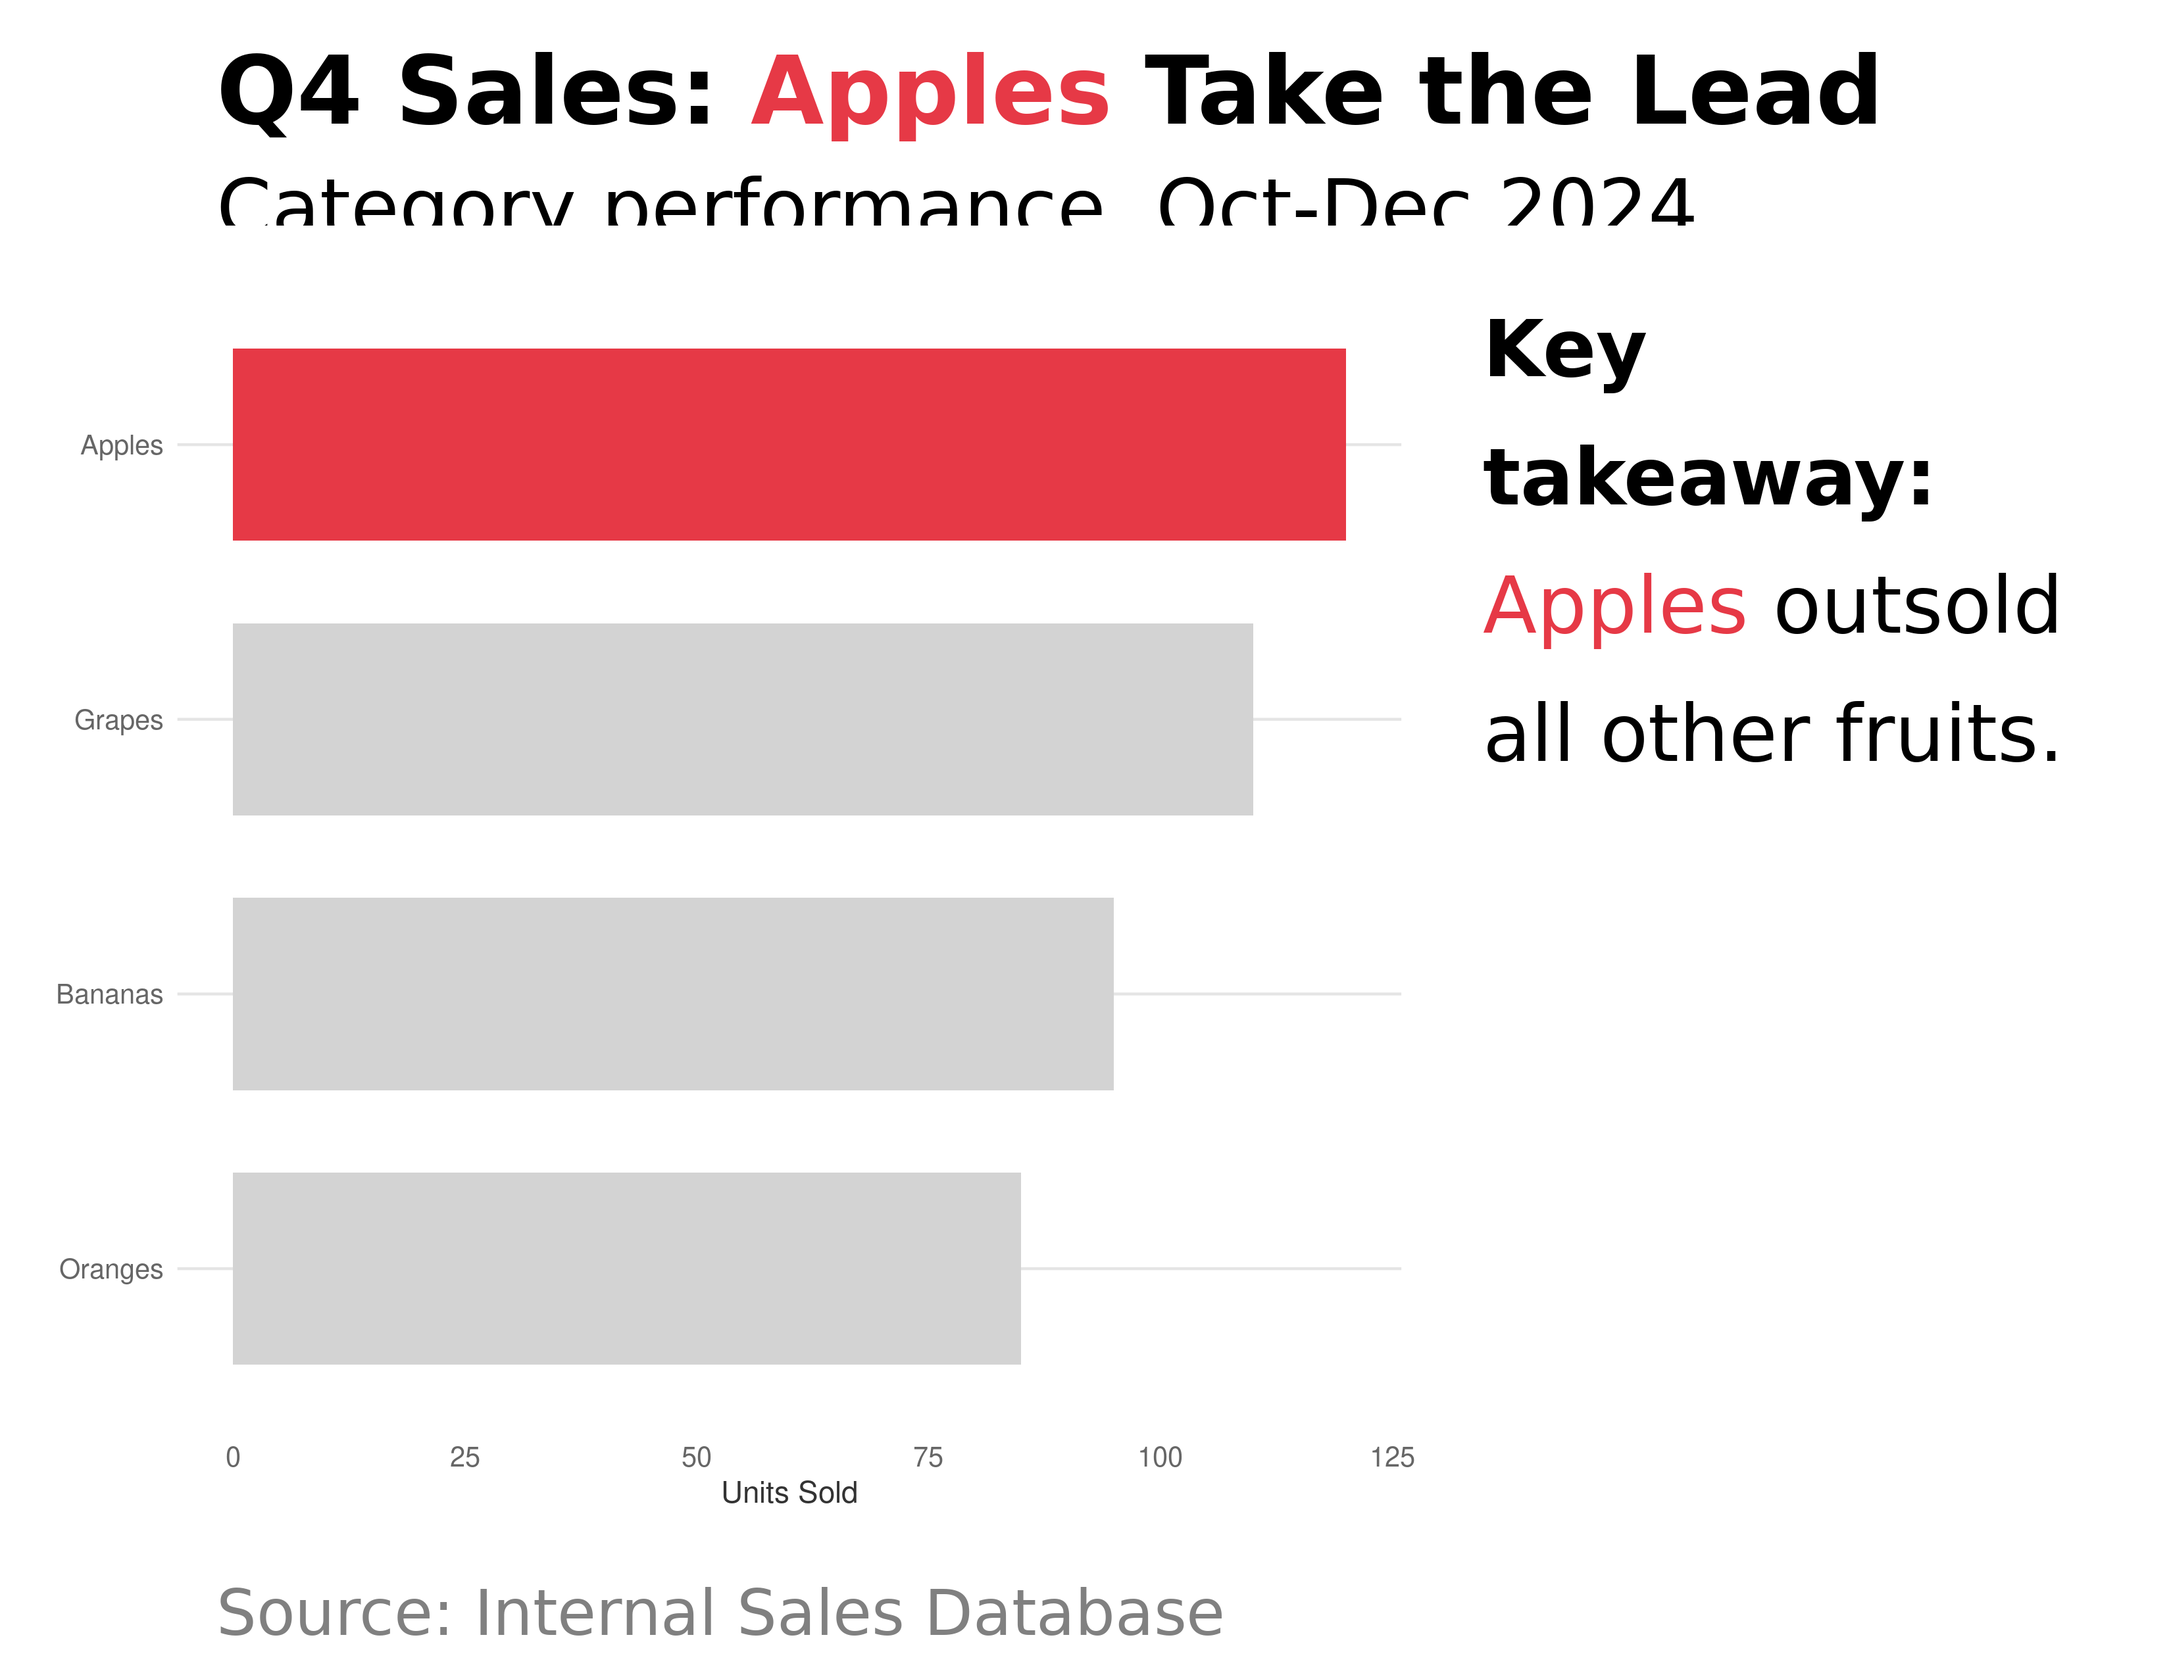
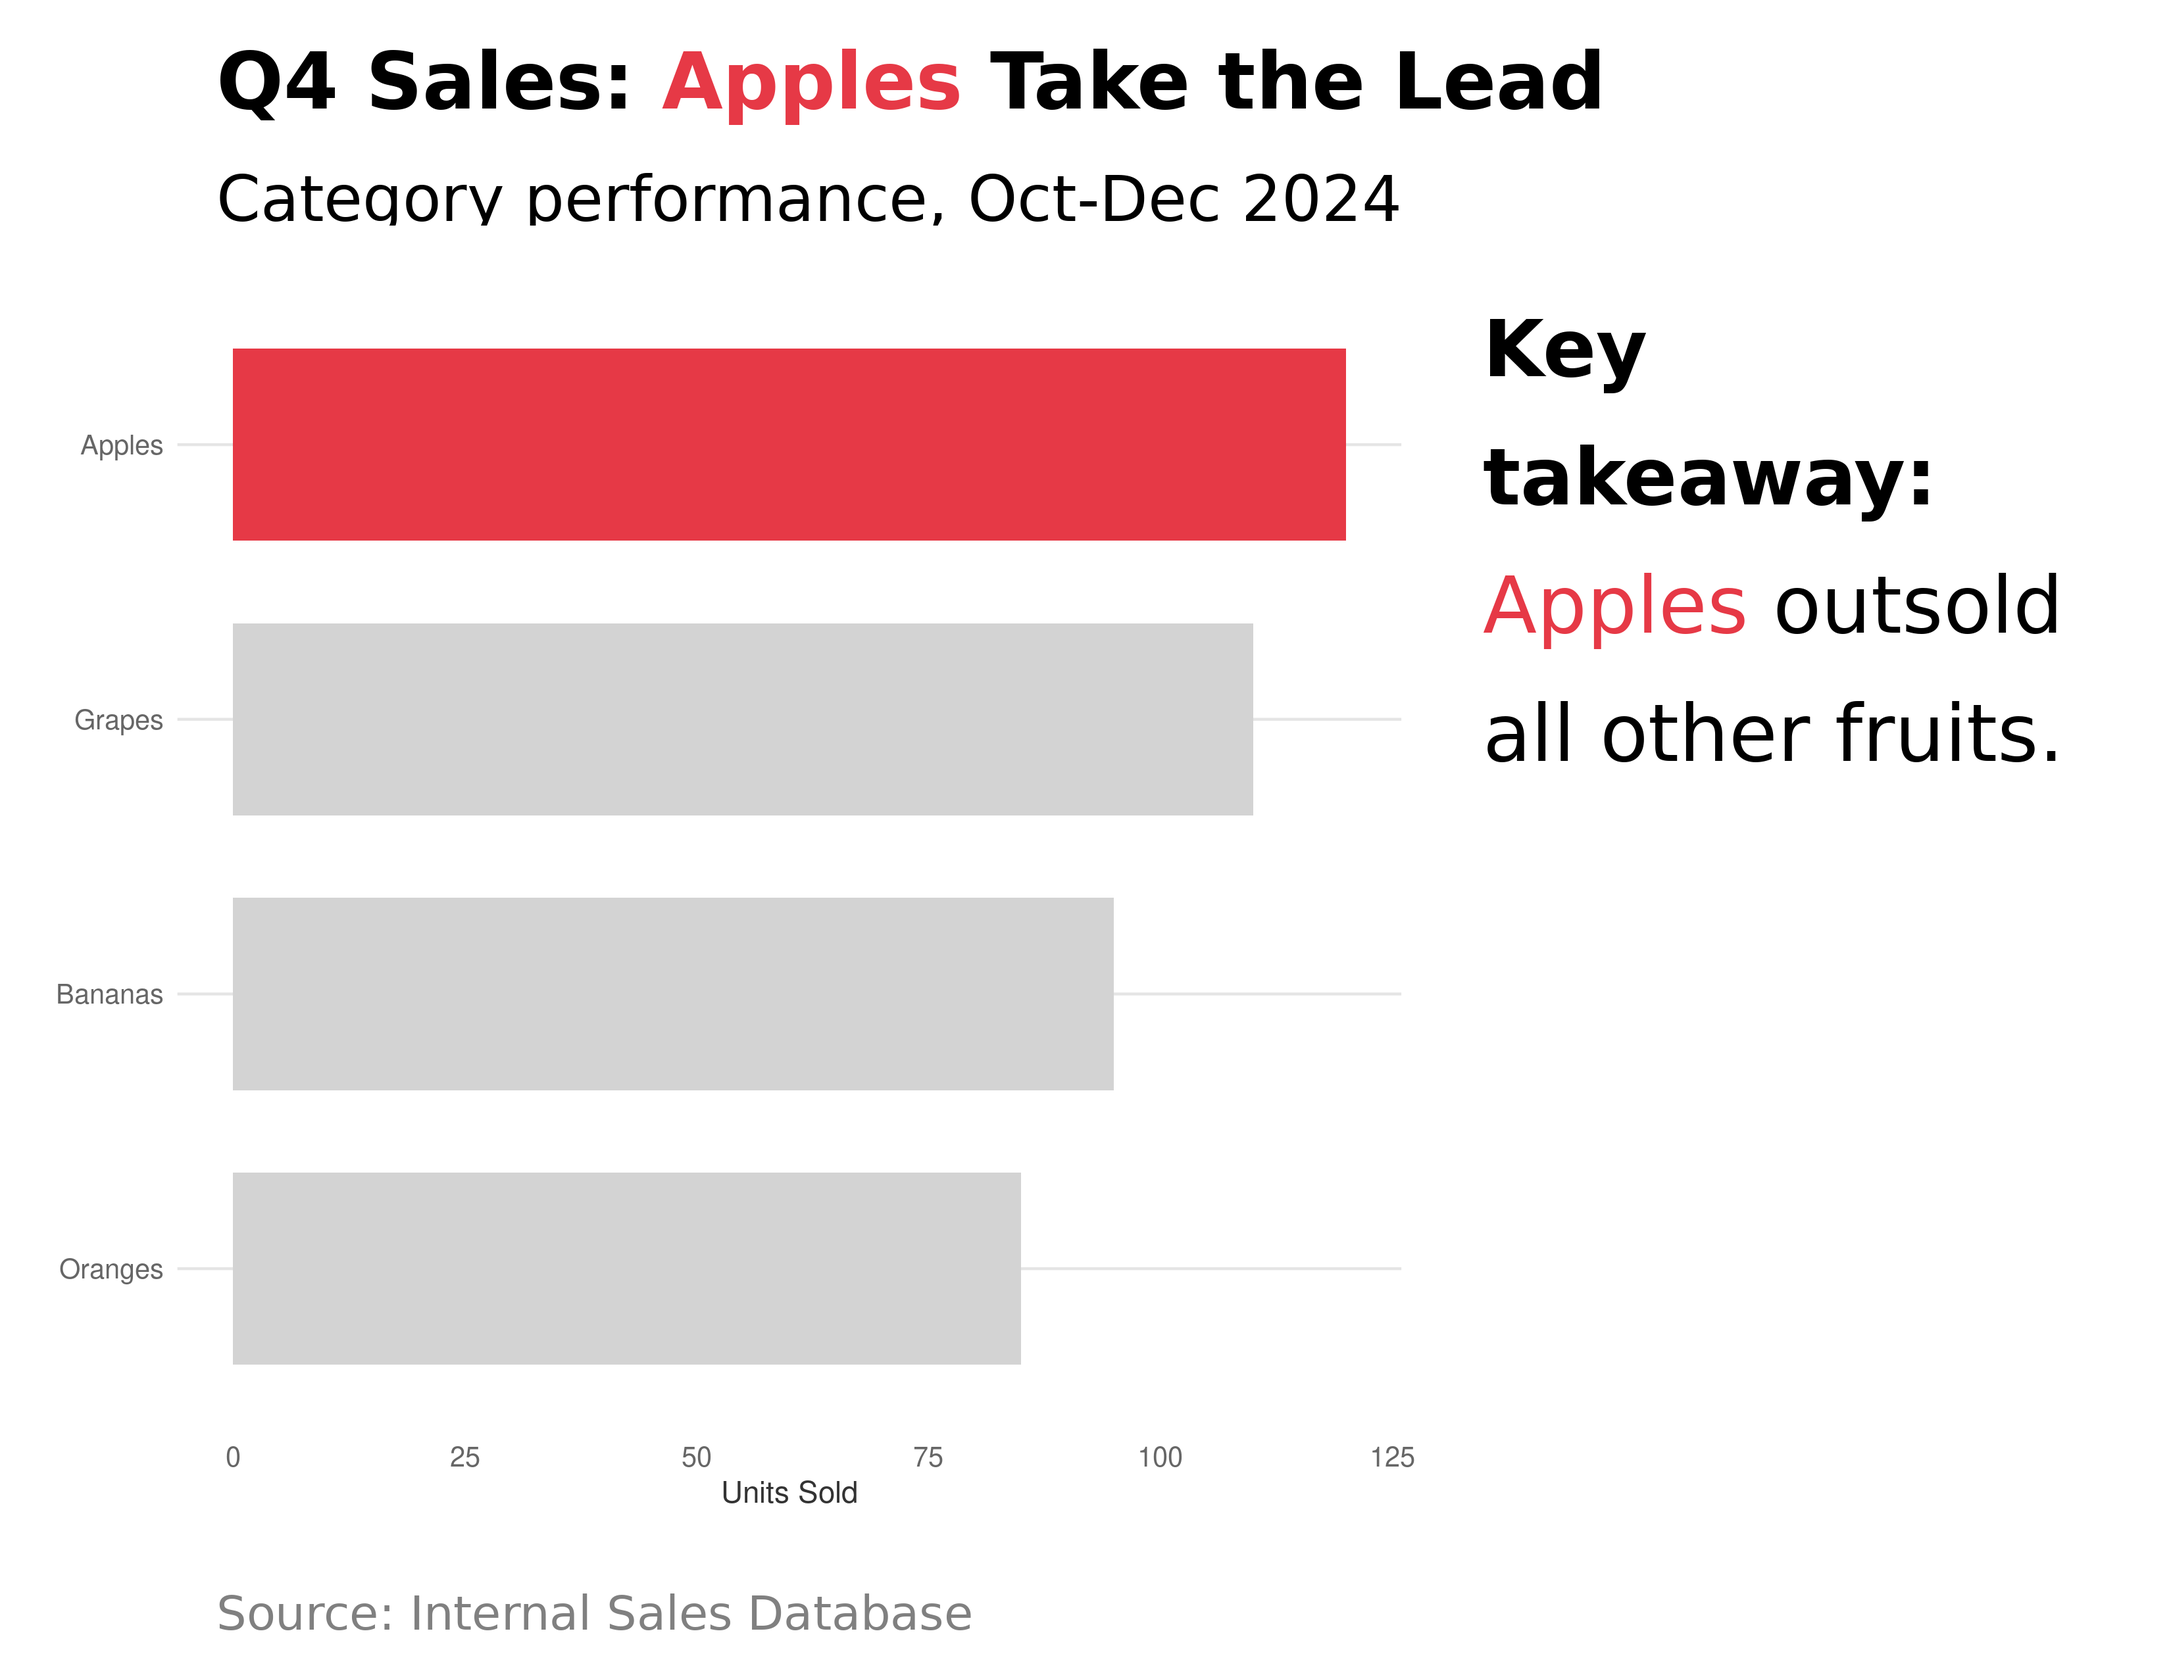
Clean up Quarto artifacts, update .Rbuildignore

Changed region(s): [[0.0936, 0.031, 0.8739, 0.1549], [0.0936, 0.9294, 0.5618, 0.9914]]

diff --git a/vignettes/articles/storytelling.html b/vignettes/articles/storytelling.html
@@ -460,7 +460,7 @@ pre > code.sourceCode > span > a:first-child::before { text-decoration: underlin
 <h3 class="anchored" data-anchor-id="caption_block">caption_block()</h3>
 <p>Adds source attribution at the bottom.</p>
 <div class="cell">
-<div class="code-copy-outer-scaffold"><div class="sourceCode cell-code" id="cb4"><pre class="sourceCode r code-with-copy"><code class="sourceCode r"><span id="cb4-1"><a href="#cb4-1" aria-hidden="true" tabindex="-1"></a><span class="fu">caption_block</span>(<span class="st">"Source: Finance Department | Q4 2024"</span>, <span class="at">caption_size =</span> <span class="dv">8</span>)</span></code></pre></div><button title="Copy to Clipboard" class="code-copy-button"><i class="bi"></i></button></div>
+<div class="code-copy-outer-scaffold"><div class="sourceCode cell-code" id="cb4"><pre class="sourceCode r code-with-copy"><code class="sourceCode r"><span id="cb4-1"><a href="#cb4-1" aria-hidden="true" tabindex="-1"></a><span class="fu">caption_block</span>(<span class="st">"Source: Finance Department | Q4 2024"</span>, <span class="at">caption_size =</span> <span class="dv">4</span>)</span></code></pre></div><button title="Copy to Clipboard" class="code-copy-button"><i class="bi"></i></button></div>
 <div class="cell-output-display">
 <div>
 <figure class="figure">
@@ -500,15 +500,15 @@ pre > code.sourceCode > span > a:first-child::before { text-decoration: underlin
 <span id="cb6-7"><a href="#cb6-7" aria-hidden="true" tabindex="-1"></a>    <span class="fu">theme_minimal</span>() <span class="sc">+</span></span>
 <span id="cb6-8"><a href="#cb6-8" aria-hidden="true" tabindex="-1"></a>    <span class="fu">labs</span>(<span class="at">x =</span> <span class="cn">NULL</span>, <span class="at">y =</span> <span class="cn">NULL</span>)</span>
 <span id="cb6-9"><a href="#cb6-9" aria-hidden="true" tabindex="-1"></a></span>
-<span id="cb6-10"><a href="#cb6-10" aria-hidden="true" tabindex="-1"></a><span class="fu">title_block</span>(<span class="st">"**{#E63946 Category A} Leads**"</span>, <span class="at">title_size =</span> <span class="dv">14</span>) <span class="sc">/</span></span>
-<span id="cb6-11"><a href="#cb6-11" aria-hidden="true" tabindex="-1"></a><span class="fu">subtitle_block</span>(<span class="st">"Year-over-year comparison"</span>) <span class="sc">/</span></span>
+<span id="cb6-10"><a href="#cb6-10" aria-hidden="true" tabindex="-1"></a><span class="fu">title_block</span>(<span class="st">"**{#E63946 Category A} Leads**"</span>, <span class="at">title_size =</span> <span class="dv">8</span>) <span class="sc">/</span></span>
+<span id="cb6-11"><a href="#cb6-11" aria-hidden="true" tabindex="-1"></a><span class="fu">subtitle_block</span>(<span class="st">"Year-over-year comparison"</span>,<span class="at">subtitle_size =</span> <span class="dv">6</span>) <span class="sc">/</span></span>
 <span id="cb6-12"><a href="#cb6-12" aria-hidden="true" tabindex="-1"></a>chart <span class="sc">/</span></span>
 <span id="cb6-13"><a href="#cb6-13" aria-hidden="true" tabindex="-1"></a><span class="fu">caption_block</span>(<span class="st">"Source: Internal Analytics"</span>) <span class="sc">+</span></span>
 <span id="cb6-14"><a href="#cb6-14" aria-hidden="true" tabindex="-1"></a>    <span class="fu">plot_layout</span>(<span class="at">heights =</span> <span class="fu">c</span>(<span class="fl">0.10</span>, <span class="fl">0.06</span>, <span class="fl">0.78</span>, <span class="fl">0.06</span>))</span></code></pre></div><button title="Copy to Clipboard" class="code-copy-button"><i class="bi"></i></button></div>
 <div class="cell-output-display">
 <div>
 <figure class="figure">
-<p><img src="storytelling_files/figure-html/combined-example-1.png" class="img-fluid figure-img" width="960"></p>
+<p><img src="storytelling_files/figure-html/combined-example-1.png" class="img-fluid figure-img" width="816"></p>
 </figure>
 </div>
 </div>

diff --git a/index.html b/index.html
@@ -479,12 +479,12 @@ pre > code.sourceCode > span > a:first-child::before { text-decoration: underlin
 <span id="cb3-22"><a href="#cb3-22" aria-hidden="true" tabindex="-1"></a><span class="co"># Block components generated by story_designer()</span></span>
 <span id="cb3-23"><a href="#cb3-23" aria-hidden="true" tabindex="-1"></a>title_plot <span class="ot">&lt;-</span> <span class="fu">title_block</span>(</span>
 <span id="cb3-24"><a href="#cb3-24" aria-hidden="true" tabindex="-1"></a>    <span class="st">"**Q4 Sales: {#E63946 Apples} Take the Lead**"</span>,</span>
-<span id="cb3-25"><a href="#cb3-25" aria-hidden="true" tabindex="-1"></a>    <span class="at">title_size =</span> <span class="dv">12</span></span>
+<span id="cb3-25"><a href="#cb3-25" aria-hidden="true" tabindex="-1"></a>    <span class="at">title_size =</span> <span class="dv">10</span></span>
 <span id="cb3-26"><a href="#cb3-26" aria-hidden="true" tabindex="-1"></a>)</span>
 <span id="cb3-27"><a href="#cb3-27" aria-hidden="true" tabindex="-1"></a></span>
 <span id="cb3-28"><a href="#cb3-28" aria-hidden="true" tabindex="-1"></a>subtitle_plot <span class="ot">&lt;-</span> <span class="fu">subtitle_block</span>(</span>
 <span id="cb3-29"><a href="#cb3-29" aria-hidden="true" tabindex="-1"></a>    <span class="st">"Category performance, Oct-Dec 2024"</span>,</span>
-<span id="cb3-30"><a href="#cb3-30" aria-hidden="true" tabindex="-1"></a>    <span class="at">subtitle_size =</span> <span class="dv">10</span></span>
+<span id="cb3-30"><a href="#cb3-30" aria-hidden="true" tabindex="-1"></a>    <span class="at">subtitle_size =</span> <span class="dv">8</span></span>
 <span id="cb3-31"><a href="#cb3-31" aria-hidden="true" tabindex="-1"></a>)</span>
 <span id="cb3-32"><a href="#cb3-32" aria-hidden="true" tabindex="-1"></a></span>
 <span id="cb3-33"><a href="#cb3-33" aria-hidden="true" tabindex="-1"></a>narrative_plot <span class="ot">&lt;-</span> <span class="fu">text_narrative</span>(</span>
@@ -494,7 +494,7 @@ pre > code.sourceCode > span > a:first-child::before { text-decoration: underlin
 <span id="cb3-37"><a href="#cb3-37" aria-hidden="true" tabindex="-1"></a></span>
 <span id="cb3-38"><a href="#cb3-38" aria-hidden="true" tabindex="-1"></a>caption_plot <span class="ot">&lt;-</span> <span class="fu">caption_block</span>(</span>
 <span id="cb3-39"><a href="#cb3-39" aria-hidden="true" tabindex="-1"></a>    <span class="st">"Source: Internal Sales Database"</span>,</span>
-<span id="cb3-40"><a href="#cb3-40" aria-hidden="true" tabindex="-1"></a>    <span class="at">caption_size =</span> <span class="dv">8</span></span>
+<span id="cb3-40"><a href="#cb3-40" aria-hidden="true" tabindex="-1"></a>    <span class="at">caption_size =</span> <span class="dv">6</span></span>
 <span id="cb3-41"><a href="#cb3-41" aria-hidden="true" tabindex="-1"></a>)</span>
 <span id="cb3-42"><a href="#cb3-42" aria-hidden="true" tabindex="-1"></a></span>
 <span id="cb3-43"><a href="#cb3-43" aria-hidden="true" tabindex="-1"></a><span class="co"># Combine with patchwork</span></span>
